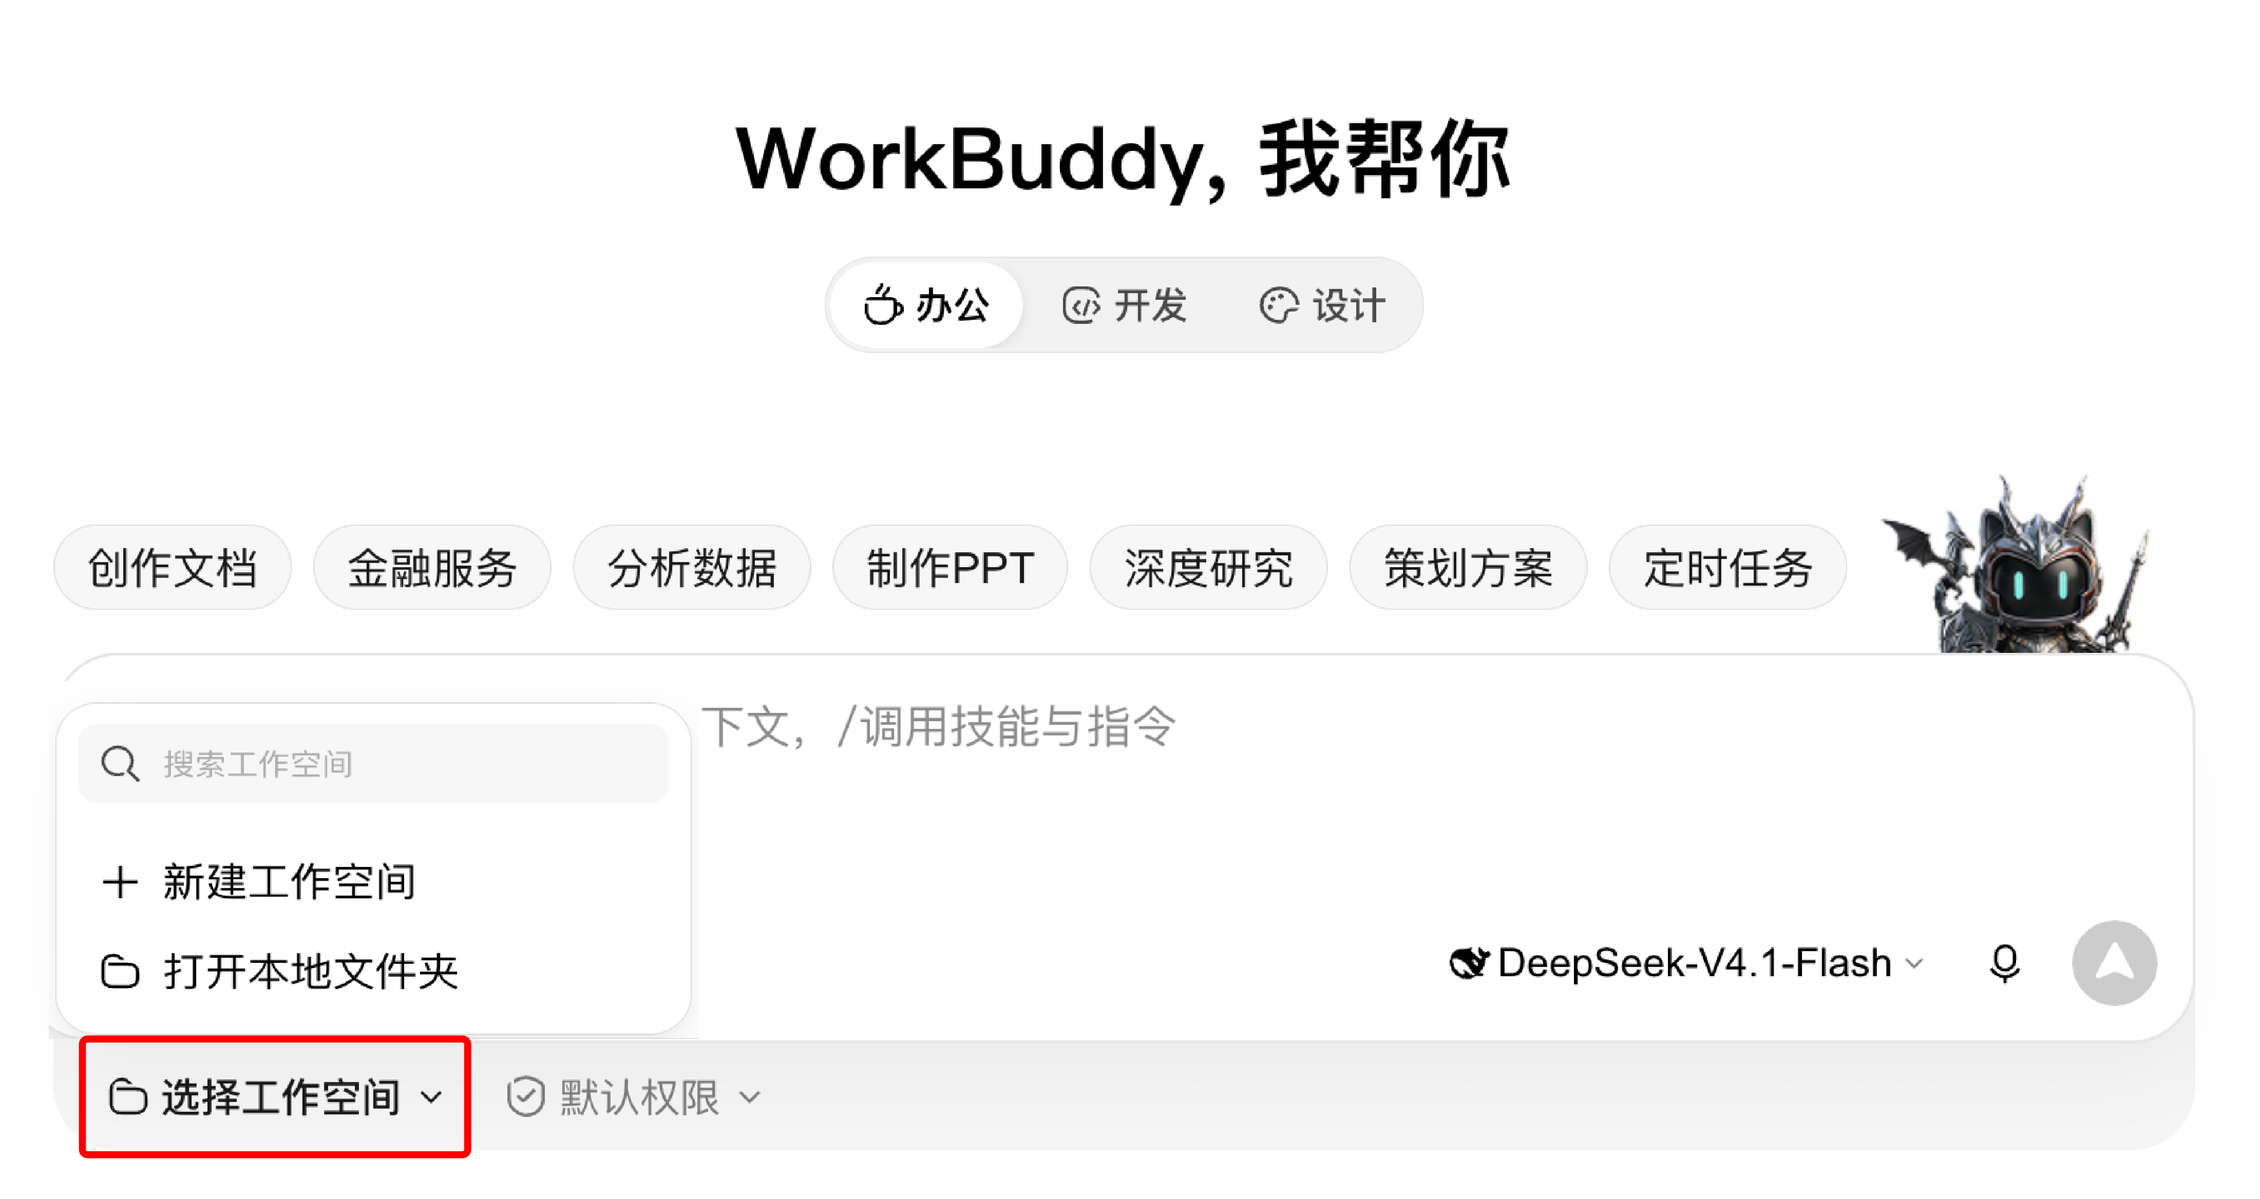
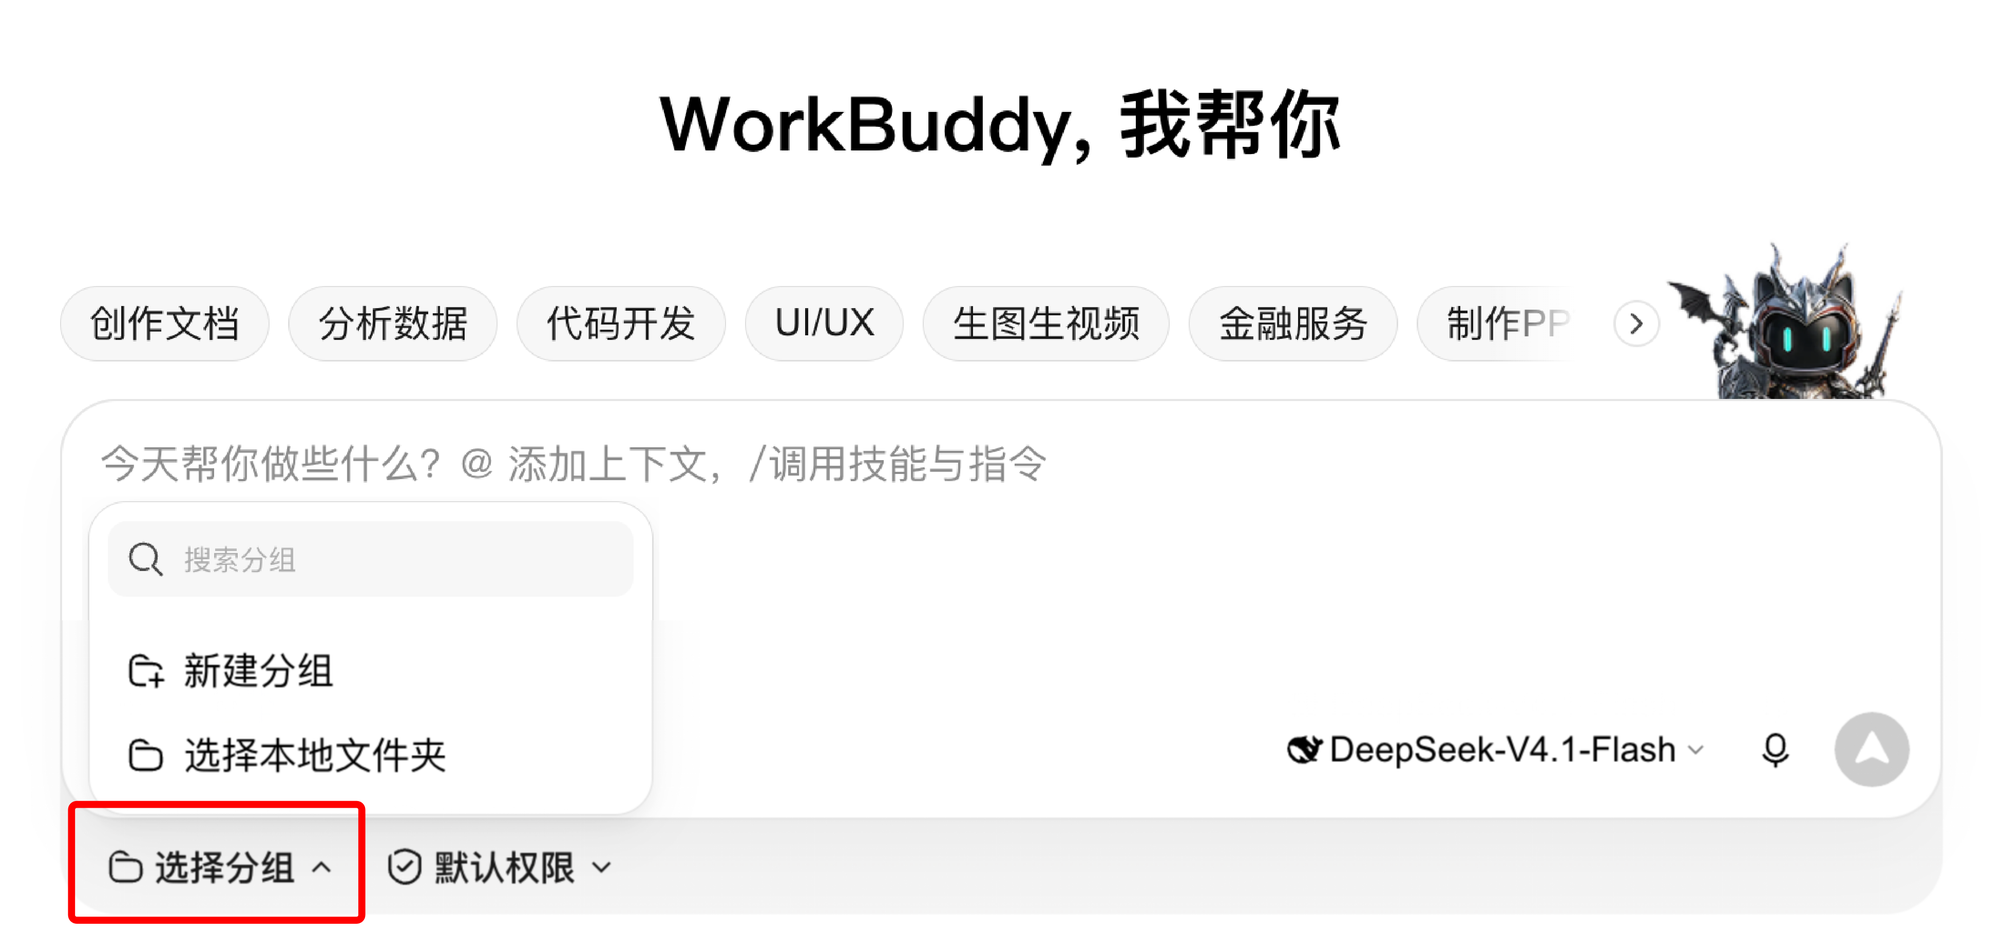
结果区入口改名「查看文件夹」；3.1 已换新图，撤掉 4 处旧版截图标注

diff --git a/index.html b/index.html
@@ -2281,7 +2281,7 @@
     <div style="display:flex;gap:16px;">
       <div style="flex:1;text-align:center;">
         <img src="images/wb_task_result.png" alt="右侧结果区查看执行结果" class="zoom-img" style="max-width:100%;border:1px solid rgba(var(--white-rgb),0.1);border-radius:6px;min-height:100px;background:rgba(var(--white-rgb),0.02);" onerror="imgMissing(this)">
-        <div style="margin-top:4px;color:var(--text-muted);font-size:12px;line-height:1.7;">📍 右侧结果区<div class="ver-note"><span class="ver-tag">旧版截图</span>图里「查看工作空间」＝「查看分组」</div></div>
+        <div style="margin-top:4px;color:var(--text-muted);font-size:12px;line-height:1.7;">📍 右侧结果区<div class="ver-note"><span class="ver-tag">旧版截图</span>图里「查看工作空间」＝「查看文件夹」</div></div>
       </div>
       <div style="flex:1;text-align:center;">
         <img src="images/wb_artifacts.png" alt="产物面板查看生成的文件" class="zoom-img" style="max-width:100%;border:1px solid rgba(var(--white-rgb),0.1);border-radius:6px;min-height:100px;background:rgba(var(--white-rgb),0.02);" onerror="imgMissing(this)">
@@ -2292,7 +2292,7 @@
 
 </section>
 
-<!-- 演讲备注:这一页按最新版界面讲。要说一句版本差异--同一个东西,旧版叫「工作空间」,新版叫「分组」,功能一模一样。为什么专门说?实训室的电脑可能没更新,学员看到的还是「工作空间」,一看到名字不一样就以为走错地方了。两组改名:工作空间改成"分组",任务改成"最近"。五个对应关系记住就行:选择工作空间=选择分组、+新建工作空间=+新建分组、侧边栏空间列表=分组列表、查看工作空间=查看分组、任务列表=最近列表。名字换了,操作一步没变,后面四步实操照做。 -->
+<!-- 演讲备注:这一页按最新版界面讲。要说一句版本差异--同一个东西,旧版叫「工作空间」,新版叫「分组」,功能一模一样。为什么专门说?实训室的电脑可能没更新,学员看到的还是「工作空间」,一看到名字不一样就以为走错地方了。两组改名:工作空间改成"分组",任务改成"最近"。五个对应关系记住就行:选择工作空间=选择分组、+新建工作空间=+新建分组、侧边栏空间列表=分组列表、查看工作空间=查看文件夹、任务列表=最近列表。名字换了,操作一步没变,后面四步实操照做。另外一定要补一句行为差异:「最近」现在是全部对话的总表,归了分组的对话在这里也照样有一条,不是"设了分组就只在分组里";「分组」只是把同一批对话按文件夹再理一遍。学员一定会问"我明明归到分组了,最近里怎么还有"--答案就是同一批对话、两个视图:最近按时间找,分组按目录找。 -->
 <!-- ========== 3.1 认识操作主界面 ========== -->
 <section class="slide" id="feature-tour">
   <h2>3.1 🗺 认识操作主界面--三个区 · 对话区的设置</h2>
@@ -2312,7 +2312,7 @@
         <div style="font-size:15px;font-weight:700;color:var(--accent-blue);">① 侧边栏(左)--功能入口</div>
         <div style="font-size:13px;color:var(--text-body);line-height:1.8;margin-top:4px;">
           上半部分:<strong>新建对话</strong> · <strong>助理</strong> · <strong>专家·技能·连接器</strong> · <strong>定时任务</strong> · <strong>资料库</strong> · <strong>更多</strong><br>
-          下半部分两个列表:<strong>「最近」</strong>和<strong>「分组」</strong>--下一段专门讲这两个怎么分。
+          下半部分两个列表:<strong>「最近」</strong>和<strong>「分组」</strong>--下一段专门讲这两个怎么配合。
         </div>
       </div>
       <div class="card" style="border-left:3px solid var(--accent-green);padding:10px 14px;margin:0;">
@@ -2326,7 +2326,7 @@
         <div style="font-size:15px;font-weight:700;color:var(--accent-orange);">③ 结果区(右)--验收成果的地方</div>
         <div style="font-size:13px;color:var(--text-body);line-height:1.8;margin-top:4px;">
           点对话里的产物卡片,文件<strong>直接在这一侧打开</strong>--Excel 表格能看、能改,不用另开软件。<br>
-          结果区里四个入口:<strong>打开浏览器 / 查看分组 / 查看变更 / 打开终端</strong>(旧版这个入口叫「查看工作空间」),下面还有<strong>产物列表</strong>(第 6 段细讲)。
+          结果区里四个入口:<strong>打开浏览器 / 查看文件夹 / 查看变更 / 打开终端</strong>(旧版这个入口叫「查看工作空间」),下面还有<strong>产物列表</strong>(第 6 段细讲)。
         </div>
       </div>
       <div style="font-size:12.5px;color:var(--text-muted);line-height:1.7;padding:0 4px;">
@@ -2336,13 +2336,17 @@
   </div>
 
   <!-- 2 最近 / 分组 -->
-  <h3 style="margin-top:8px;">2 「最近」与「分组」--两个列表怎么分,目录怎么设</h3>
+  <h3 style="margin-top:8px;">2 「最近」与「分组」--一个是总表,一个是目录</h3>
   <div style="margin:0 0 12px;padding:9px 13px;border-radius:8px;background:rgba(var(--blue-rgb),0.07);border:1px solid rgba(var(--blue-rgb),0.22);font-size:13px;color:var(--text-body);line-height:1.7;">
-    ℹ <strong>版本差异:这一节按最新版界面写。</strong>新版改了两个名字,<strong style="color:var(--accent-orange);">功能都没变</strong>:①「工作空间」→<strong>「分组」</strong>;②「任务」→<strong>「最近」</strong>(侧边栏上半那个列表)。<br>实训室电脑没更新时你会看到旧名字,照着对:输入框下的<strong>「选择工作空间」=「选择分组」</strong>、<strong>「＋ 新建工作空间」=「＋ 新建分组」</strong>、侧边栏<strong>「空间」列表 =「分组」列表</strong>、结果区<strong>「查看工作空间」=「查看分组」</strong>、上半部分<strong>「任务」列表 =「最近」列表</strong>。<br>名字换了,地方和操作一步没变。这一页有几张图取自旧版界面,图注带<span class="ver-tag">旧版截图</span>的,照上面的对应关系念。
+    ℹ <strong>版本差异：只改了名字，位置和操作不变。</strong><br>
+    <span style="color:#8c8c8c;font-weight:700;">工作空间</span> → <span style="color:var(--accent-green);font-weight:700;">分组</span>　选择工作空间=选择分组 · ＋新建工作空间=＋新建分组 · 空间列表=分组列表 · 查看工作空间=查看文件夹<br>
+    <span style="color:#8c8c8c;font-weight:700;">任务</span> → <span style="color:var(--accent-blue);font-weight:700;">最近</span>　任务列表=最近列表<br>
+    <span style="color:var(--text-muted);font-size:12.5px;">图注带 <span class="ver-tag">旧版截图</span> 的，按这个对照念。</span>
   </div>
   <div style="display:grid;grid-template-columns:1.15fr 0.85fr;gap:14px;margin-bottom:12px;align-items:center;">
     <div style="color:var(--text-body);font-size:15px;line-height:1.9;">
-      三区先混个脸熟就行。真正要现在搞懂的,是<strong>侧边栏下半部分那两个列表</strong>——「最近」和「分组」:这俩看着不起眼,却决定了你每次干活之后<strong>文件去哪、下次还找不找得到</strong>。
+      三区先混个脸熟就行。真正要现在搞懂的,是<strong>侧边栏下半部分那两个列表</strong>——「最近」和「分组」:这俩看着不起眼,却决定了你每次干活之后<strong>文件去哪、下次还找不找得到</strong>。<br>
+      <strong>这两个不是两拨对话</strong>:「最近」是<strong>全部对话</strong>的总表,「分组」是<strong>同一批对话</strong>按文件夹再排一遍。
     </div>
     <div style="text-align:center;">
       <img src="images/wb_sidebar_lists.png" alt="侧边栏最近与分组两个列表" class="zoom-img" style="max-width:100%;border:1px solid rgba(var(--white-rgb),0.1);border-radius:6px;background:rgba(var(--white-rgb),0.02);" onerror="imgMissing(this)">
@@ -2353,16 +2357,17 @@
   <!-- 2a 最近：行 -->
   <div style="display:grid;grid-template-columns:1.12fr 0.88fr;gap:14px;margin-bottom:12px;align-items:stretch;">
     <div class="card" style="border-left:4px solid var(--accent-blue);padding:14px 16px;margin:0;display:flex;flex-direction:column;justify-content:center;">
-      <div style="font-size:16px;font-weight:700;color:var(--accent-blue);">📋 「最近」--不设任何东西,直接写提示词</div>
+      <div style="font-size:16px;font-weight:700;color:var(--accent-blue);">📋 「最近」--所有对话都在这儿,新的排最上</div>
       <div style="font-size:14px;color:var(--text-body);line-height:1.9;margin-top:8px;">
         打开客户端,在输入框里<strong>直接写要求</strong>、回车,AI 跑完一轮就多出<strong>一条记录</strong>,自动排进「最近」,<strong>新的排最上</strong>。点一下能回到那次对话接着聊,当时的产物也还在。<br>
-        <span style="color:var(--accent-orange);font-weight:600;">⚠ 但没设分组时</span>:WorkBuddy 会自动建一个<span class="hl-lg warn">临时目录</span>把活干完。文件不会丢,可目录名是它起的、位置不好找,而且只挂在这一次对话下面,<strong>不归任何分组</strong>。<br>
+        <span style="color:var(--accent-blue);font-weight:600;">📌 总表</span>:设没设分组,对话都在这儿。<br>
+        <span style="color:var(--accent-orange);font-weight:600;">⚠ 但没设分组时</span>:WorkBuddy 会自动建一个<span class="hl-lg warn">临时目录</span>把活干完。文件不会丢,可目录名是它起的、位置不好找,而且只挂在这一次对话下面,<strong>在「分组」里找不到它</strong>。<br>
         <span style="color:var(--text-muted);font-size:13px;">✅ 什么时候这样用:临时问一句、试一下、不打算留档的活--用完就扔,不必建分组。</span>
       </div>
     </div>
     <div class="card" style="border-top:3px solid var(--accent-blue);padding:12px;margin:0;display:flex;flex-direction:column;">
       <img src="images/wb_flow_task.png" alt="不设分组直接输入提示词的界面" class="zoom-img" style="width:100%;flex:1;object-fit:contain;border:1px solid rgba(var(--white-rgb),0.1);border-radius:6px;min-height:150px;background:rgba(var(--white-rgb),0.02);" onerror="imgMissing(this)">
-      <div style="margin-top:8px;color:var(--text-muted);font-size:12.5px;text-align:center;line-height:1.7;">📍 不选分组,直接写提示词 → 数据落在「临时目录」<div class="ver-note"><span class="ver-tag">旧版截图</span>图里「不设置工作空间」＝现在的「不选分组」</div></div>
+      <div style="margin-top:8px;color:var(--text-muted);font-size:12.5px;text-align:center;line-height:1.7;">📍 不选分组,直接写提示词 → 数据落在「临时目录」</div>
     </div>
   </div>
 
@@ -2371,7 +2376,7 @@
     <div class="card" style="border-left:4px solid var(--accent-green);padding:14px 16px;margin:0;display:flex;flex-direction:column;justify-content:center;">
       <div style="font-size:16px;font-weight:700;color:var(--accent-green);">📁 「分组」--先设文件夹,再写提示词</div>
       <div style="font-size:14px;color:var(--text-body);line-height:1.9;margin-top:8px;">
-        顺序反过来:<strong>先指定一个文件夹</strong>当分组,再往输入框里写提示词。这次对话就归进「分组」,按文件夹归类。<br>
+        顺序反过来:<strong>先指定一个文件夹</strong>当分组,再往输入框里写提示词。这次对话的<strong>文件就落在这个文件夹里</strong>,同时在「分组」下多一条记录——<strong style="color:var(--accent-orange);">不是从「最近」搬走,那儿照样有它</strong>。<br>
         <span style="color:var(--accent-green);font-weight:600;">怎么建</span>--「分组」这块有两个入口,点哪个都行:<br>
         <span style="display:inline-block;margin:3px 6px 3px 0;padding:2px 10px;border-radius:12px;border:1px solid rgba(var(--blue-rgb),0.4);background:rgba(var(--blue-rgb),0.1);color:var(--accent-blue);font-size:13px;font-weight:700;">＋ 新建分组</span>从零建一个,交给 WorkBuddy 管<br>
         <span style="display:inline-block;margin:3px 6px 3px 0;padding:2px 10px;border-radius:12px;border:1px solid rgba(var(--green-rgb),0.4);background:rgba(var(--green-rgb),0.1);color:var(--accent-green);font-size:13px;font-weight:700;">📂 打开本地文件夹</span>直接指向你电脑上已有的文件夹<br>
@@ -2382,15 +2387,15 @@
     </div>
     <div class="card" style="border-top:3px solid var(--accent-green);padding:12px;margin:0;display:flex;flex-direction:column;">
       <img src="images/wb_flow_space.png" alt="先设置分组再输入提示词的界面" class="zoom-img" style="width:100%;flex:1;object-fit:contain;border:1px solid rgba(var(--white-rgb),0.1);border-radius:6px;min-height:150px;background:rgba(var(--white-rgb),0.02);" onerror="imgMissing(this)">
-      <div style="margin-top:8px;color:var(--text-muted);font-size:12.5px;text-align:center;line-height:1.7;">📍 先选好分组,再写提示词 → 落在「分组」列表<div class="ver-note"><span class="ver-tag">旧版截图</span>图里「工作空间」＝现在的「分组」</div></div>
+      <div style="margin-top:8px;color:var(--text-muted);font-size:12.5px;text-align:center;line-height:1.7;">📍 先选好分组,再写提示词 → 文件落在分组目录,对话同时进「分组」和「最近」</div>
     </div>
   </div>
 
   <div class="ok-box" style="margin:0 0 12px 0;">
     <div class="title">💡 一句话分清</div>
     <div class="text" style="font-size:14px;">
-      <strong>「最近」看的是"我干过什么"</strong>(一条记录 = 一段对话),<strong>「分组」看的是"东西存在哪"</strong>(一个分组 = 一个文件夹)。<br>
-      <strong style="color:var(--accent-green);">所以顺序是先设分组、再开对话</strong>--先说清楚"这门课的文件放 D 盘哪个文件夹",再让它干活,出来的东西自然归在一起。
+      <strong>同一批对话,两个视角</strong>:<strong style="color:var(--accent-blue);">「最近」按时间找</strong>--全部对话新的排最上,归没归分组都在里面;<strong style="color:var(--accent-green);">「分组」按目录找</strong>--同一个文件夹的对话归在一起。<br>
+      <strong style="color:var(--accent-green);">所以顺序是先设分组、再开对话</strong>--先说清楚"这门课的文件放 D 盘哪个文件夹",再让它干活:文件落到该落的地方,对话在「最近」和「分组」两处都能翻到。
     </div>
   </div>
 
@@ -2406,12 +2411,12 @@
       <div class="step" style="margin:7px 0;"><div class="num">1</div><div class="text" style="font-size:15px;">在 D 盘新建 <code>D:\WorkBuddy国培</code><span style="display:block;color:var(--text-muted);font-size:12.5px;margin-top:1px;">不想自己建?点「＋ 新建分组」起个名,它帮你建</span></div></div>
       <div class="step" style="margin:7px 0;"><div class="num">2</div><div class="text" style="font-size:15px;">点 <strong>📂 打开本地文件夹</strong>,选中这个文件夹</div></div>
       <div class="step" style="margin:7px 0;"><div class="num">3</div><div class="text" style="font-size:15px;">确认:输入框下方的「选择分组」变成<strong style="color:var(--accent-green);">你的文件夹名</strong>--就成了<span style="display:block;color:var(--text-muted);font-size:12.5px;margin-top:1px;">旧版这个位置写的是「选择工作空间」,一样</span></div></div>
-      <div class="step" style="margin:7px 0 0;"><div class="num">4</div><div class="text" style="font-size:15px;">侧边栏「分组」里能看到它,这四步实操的对话都丢进去</div></div>
+      <div class="step" style="margin:7px 0 0;"><div class="num">4</div><div class="text" style="font-size:15px;">侧边栏「分组」里能看到它;这几步实操的对话都选这个分组<span style="display:block;color:var(--text-muted);font-size:12.5px;margin-top:1px;">「最近」里也照样能看到这几条--两个地方是同一批对话</span></div></div>
     </div>
     <div class="card" style="border-top:3px solid var(--accent-green);padding:12px 14px;margin:0;display:flex;flex-direction:column;justify-content:center;">
       <img src="images/wb_space_ready.png" alt="设好分组后的界面" class="zoom-img" style="width:100%;border:1px solid rgba(var(--white-rgb),0.1);border-radius:6px;min-height:130px;background:rgba(var(--white-rgb),0.02);" onerror="imgMissing(this)">
       <div style="margin-top:8px;color:var(--text-muted);font-size:12.5px;line-height:1.7;text-align:center;">
-        📍 红框那行就是证据:输入框左下方显示<strong style="color:var(--accent-green);">WorkBuddy国培</strong>,分组就设好了<div class="ver-note"><span class="ver-tag">旧版截图</span>图里「先设置好工作空间」＝现在的「先设置好分组」</div>
+        📍 红框那行就是证据:输入框左下方显示<strong style="color:var(--accent-green);">WorkBuddy国培</strong>,分组就设好了
       </div>
       <div style="margin-top:6px;color:var(--text-body);font-size:12.5px;line-height:1.7;background:rgba(var(--green-rgb),0.07);border-radius:5px;padding:6px 9px;">
         🗂 <strong>子文件夹不用提前建</strong>--干活时让它建,文件自然落在根目录;真需要分了,再按「一门课一个文件夹」理一次。
@@ -2539,7 +2544,7 @@
   <div style="display:grid;grid-template-columns:0.55fr 1.15fr 0.85fr;gap:14px;margin-bottom:14px;align-items:stretch;">
     <div style="display:flex;flex-direction:column;justify-content:center;">
       <img src="images/wb_view_tabs.png" alt="结果区界面:标签页+四个入口+产物列表" class="zoom-img" style="width:100%;border:1px solid rgba(var(--white-rgb),0.1);border-radius:8px;min-height:120px;background:rgba(var(--white-rgb),0.02);" onerror="imgMissing(this)">
-      <div style="margin-top:6px;color:var(--text-muted);font-size:12px;text-align:center;line-height:1.7;">📍 结果区 = AI 的工作台:标签页(可多开) + 四个入口 + 产物列表<div class="ver-note"><span class="ver-tag">旧版截图</span>图里「查看工作空间」＝「查看分组」</div></div>
+      <div style="margin-top:6px;color:var(--text-muted);font-size:12px;text-align:center;line-height:1.7;">📍 结果区 = AI 的工作台:标签页(可多开) + 四个入口 + 产物列表</div>
     </div>
     <div style="display:flex;flex-direction:column;gap:10px;">
       <div style="display:grid;grid-template-columns:1fr 1fr;gap:10px;">
@@ -2548,7 +2553,7 @@
           <div style="font-size:13px;color:var(--text-body);line-height:1.7;margin-top:4px;">AI 上网操作时,实时画面在这里,能随时叫停</div>
         </div>
         <div class="card" style="border-left:3px solid var(--accent-green);padding:10px 12px;margin:0;">
-          <div style="font-size:14px;font-weight:700;color:var(--accent-green);">📁 查看分组</div>
+          <div style="font-size:14px;font-weight:700;color:var(--accent-green);">📁 查看文件夹</div>
           <div style="font-size:13px;color:var(--text-body);line-height:1.7;margin-top:4px;">整个目录的文件树,新出的文件一眼看到</div>
         </div>
         <div class="card" style="border-left:3px solid var(--accent-orange);padding:10px 12px;margin:0;">
